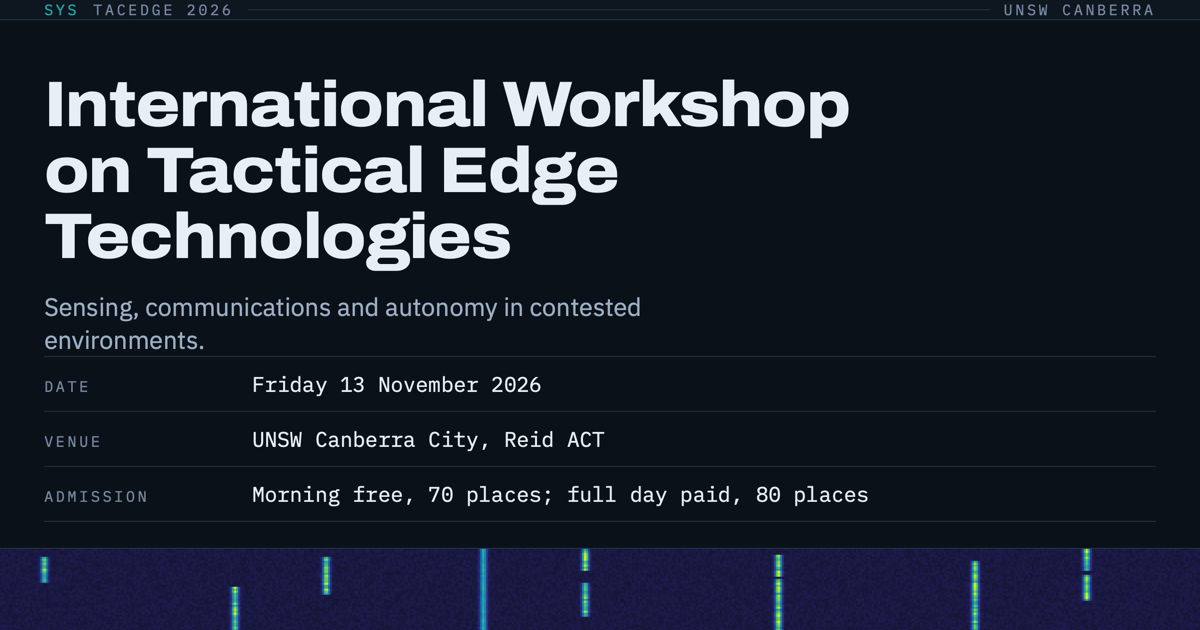
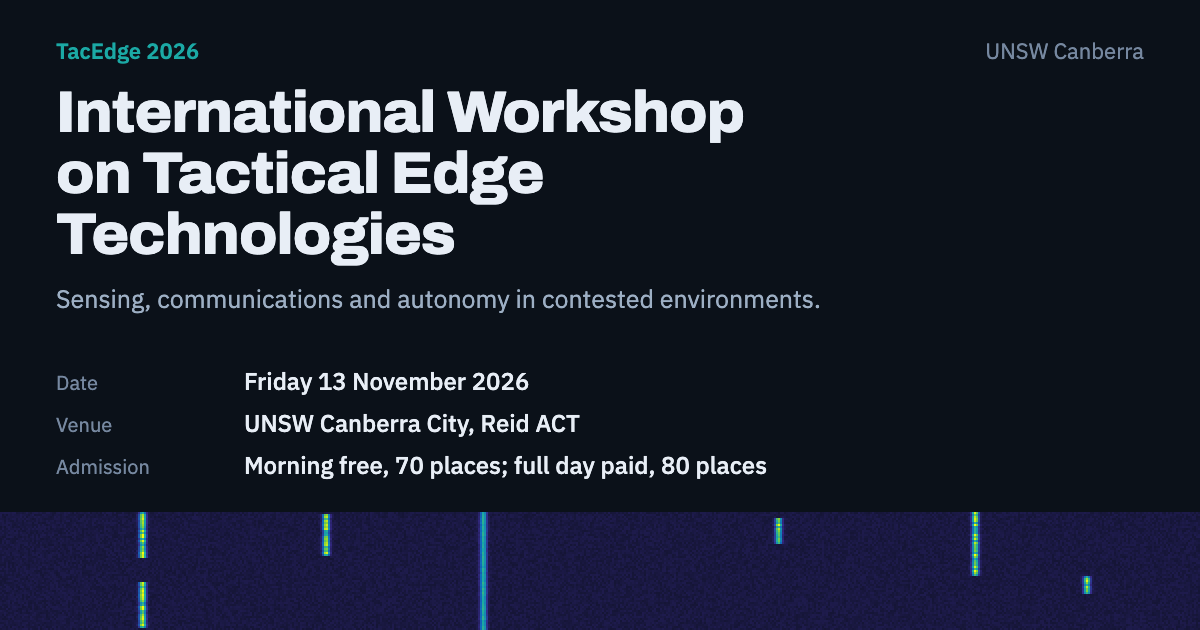
Restyle the social card to match the site

diff --git a/img/og-source.html b/img/og-source.html
@@ -2,33 +2,30 @@
 <title>TacEdge 2026 — social card source (render at 1200x630 to img/og.png)</title>
 <link rel="preconnect" href="https://fonts.googleapis.com">
 <link rel="preconnect" href="https://fonts.gstatic.com" crossorigin>
-<link href="https://fonts.googleapis.com/css2?family=Archivo:wdth,wght@100..125,400..800&family=IBM+Plex+Mono:wght@400;500&family=IBM+Plex+Sans:wght@400;500&display=swap" rel="stylesheet">
+<link href="https://fonts.googleapis.com/css2?family=Archivo:wdth,wght@100..125,400..800&family=IBM+Plex+Sans:wght@400;500;600&display=swap" rel="stylesheet">
 <style>
 :root{--bg:#0B1119;--bg-2:#0E1620;--rule:#22303F;--rule-2:#2E4054;
 --ink:#E8EEF6;--ink-2:#9DAFC4;--ink-3:#7688A0;--p3:#1BA9A5;
---display:'Archivo',sans-serif;--body:'IBM Plex Sans',sans-serif;--mono:'IBM Plex Mono',monospace;}
+--display:'Archivo',sans-serif;--body:'IBM Plex Sans',sans-serif;}
 *{box-sizing:border-box;margin:0}
 body{width:1200px;height:630px;background:var(--bg);color:var(--ink);
   font-family:var(--body);overflow:hidden;font-variant-numeric:tabular-nums;
   display:flex;flex-direction:column;}
-.bar{display:flex;align-items:center;gap:14px;height:46px;padding:0 44px;
-  background:var(--bg-2);border-bottom:1px solid var(--rule);
-  font-family:var(--mono);font-size:15px;letter-spacing:.18em;text-transform:uppercase;color:var(--ink-3)}
-.bar .id{color:var(--p3)}
-.bar .fill{flex:1;height:1px;background:var(--rule)}
-.body{flex:1;padding:52px 44px 0;display:flex;flex-direction:column}
-h1{font-family:var(--display);font-weight:800;font-stretch:112%;font-size:64px;
-  line-height:1.04;letter-spacing:-.015em;max-width:19ch}
-.sub{font-size:25px;color:var(--ink-2);margin-top:20px;max-width:46ch;line-height:1.35}
-.fields{margin-top:auto;margin-bottom:26px;border-top:1px solid var(--rule)}
-.f{display:grid;grid-template-columns:190px 1fr;gap:18px;align-items:baseline;
-  padding:13px 0;border-bottom:1px solid var(--rule)}
-.f .k{font-family:var(--mono);font-size:15px;letter-spacing:.18em;text-transform:uppercase;color:var(--ink-3)}
-.f .v{font-family:var(--mono);font-size:21px;color:var(--ink)}
-.fall{height:118px;background:#050A11;border-top:1px solid var(--rule)}
+.top{display:flex;align-items:baseline;padding:36px 56px 0;font-size:22px}
+.top .name{color:var(--p3);font-weight:600}
+.top .org{margin-left:auto;color:var(--ink-3)}
+.body{flex:1;padding:18px 56px 0;display:flex;flex-direction:column}
+h1{font-family:var(--display);font-weight:800;font-stretch:105%;font-size:58px;
+  line-height:1.05;letter-spacing:-.015em;max-width:19ch}
+.sub{font-size:25px;color:var(--ink-2);margin-top:16px;max-width:52ch;line-height:1.35}
+.fields{margin-top:auto;padding-top:20px;margin-bottom:26px}
+.f{display:grid;grid-template-columns:170px 1fr;gap:18px;align-items:baseline;padding:5px 0}
+.f .k{font-size:20px;color:var(--ink-3)}
+.f .v{font-size:24px;font-weight:500;color:var(--ink)}
+.fall{height:118px;background:#050A11}
 canvas{display:block;width:1200px;height:118px}
 </style></head><body>
-<div class="bar"><span class="id">SYS</span><span>TacEdge 2026</span><span class="fill"></span><span>UNSW Canberra</span></div>
+<div class="top"><span class="name">TacEdge 2026</span><span class="org">UNSW Canberra</span></div>
 <div class="body">
   <h1>International Workshop on Tactical Edge Technologies</h1>
   <p class="sub">Sensing, communications and autonomy in contested environments.</p>

diff --git a/CLAUDE.md b/CLAUDE.md
@@ -145,8 +145,7 @@ waterfall in it is a real render of the airband script.
 
 Chrome is not installed on Artem's Mac; the Playwright copy works:
 `~/Library/Caches/ms-playwright/chromium-1248/chrome-mac-x64/Google Chrome for Testing.app/Contents/MacOS/Google Chrome for Testing`.
-The card still uses the pre-2 November look (a `SYS` bar and mono labels);
-bring `og-source.html` in line with the redesign when it is next touched.
+The card was restyled with the site on 2 November 2026: no `SYS` bar, no mono.
 
 **Regenerate it whenever the hero facts change** — the card repeats the title,
 date, venue and admission line, and nothing warns you when it goes stale.
